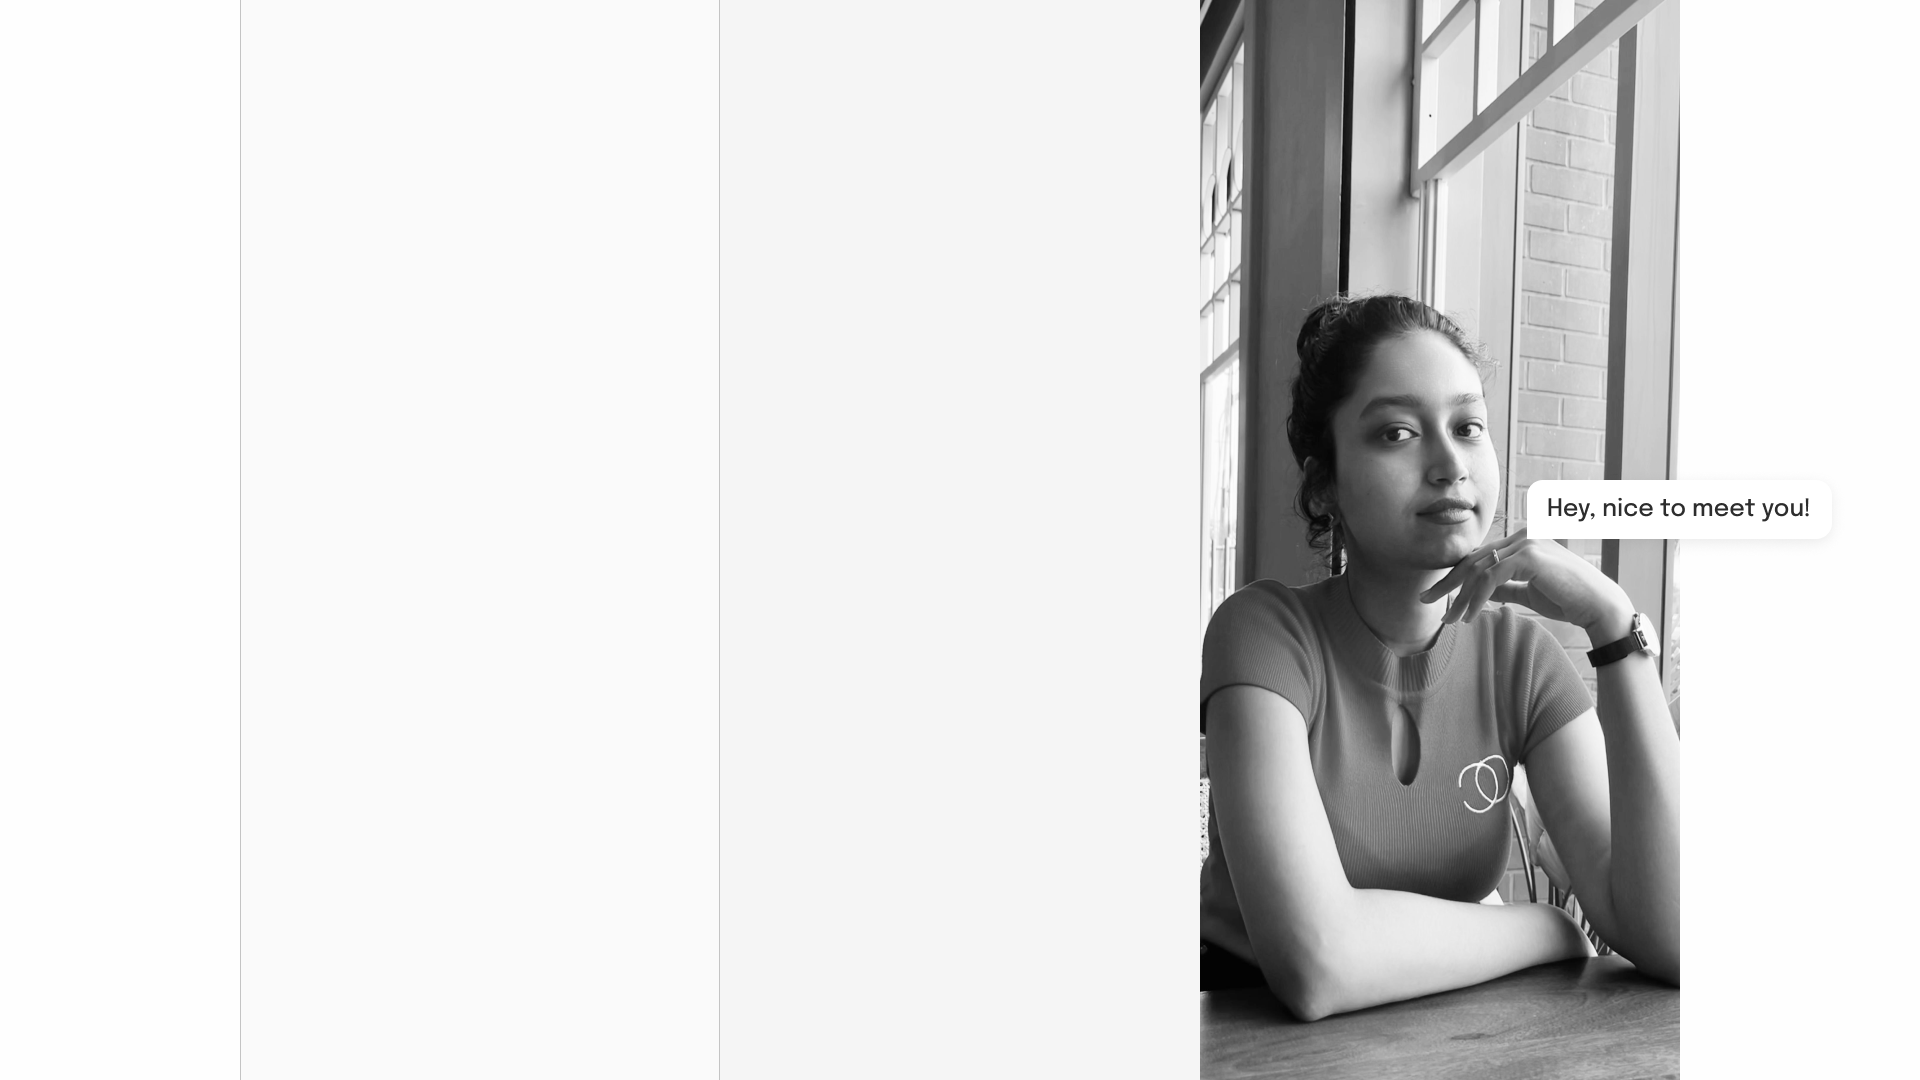
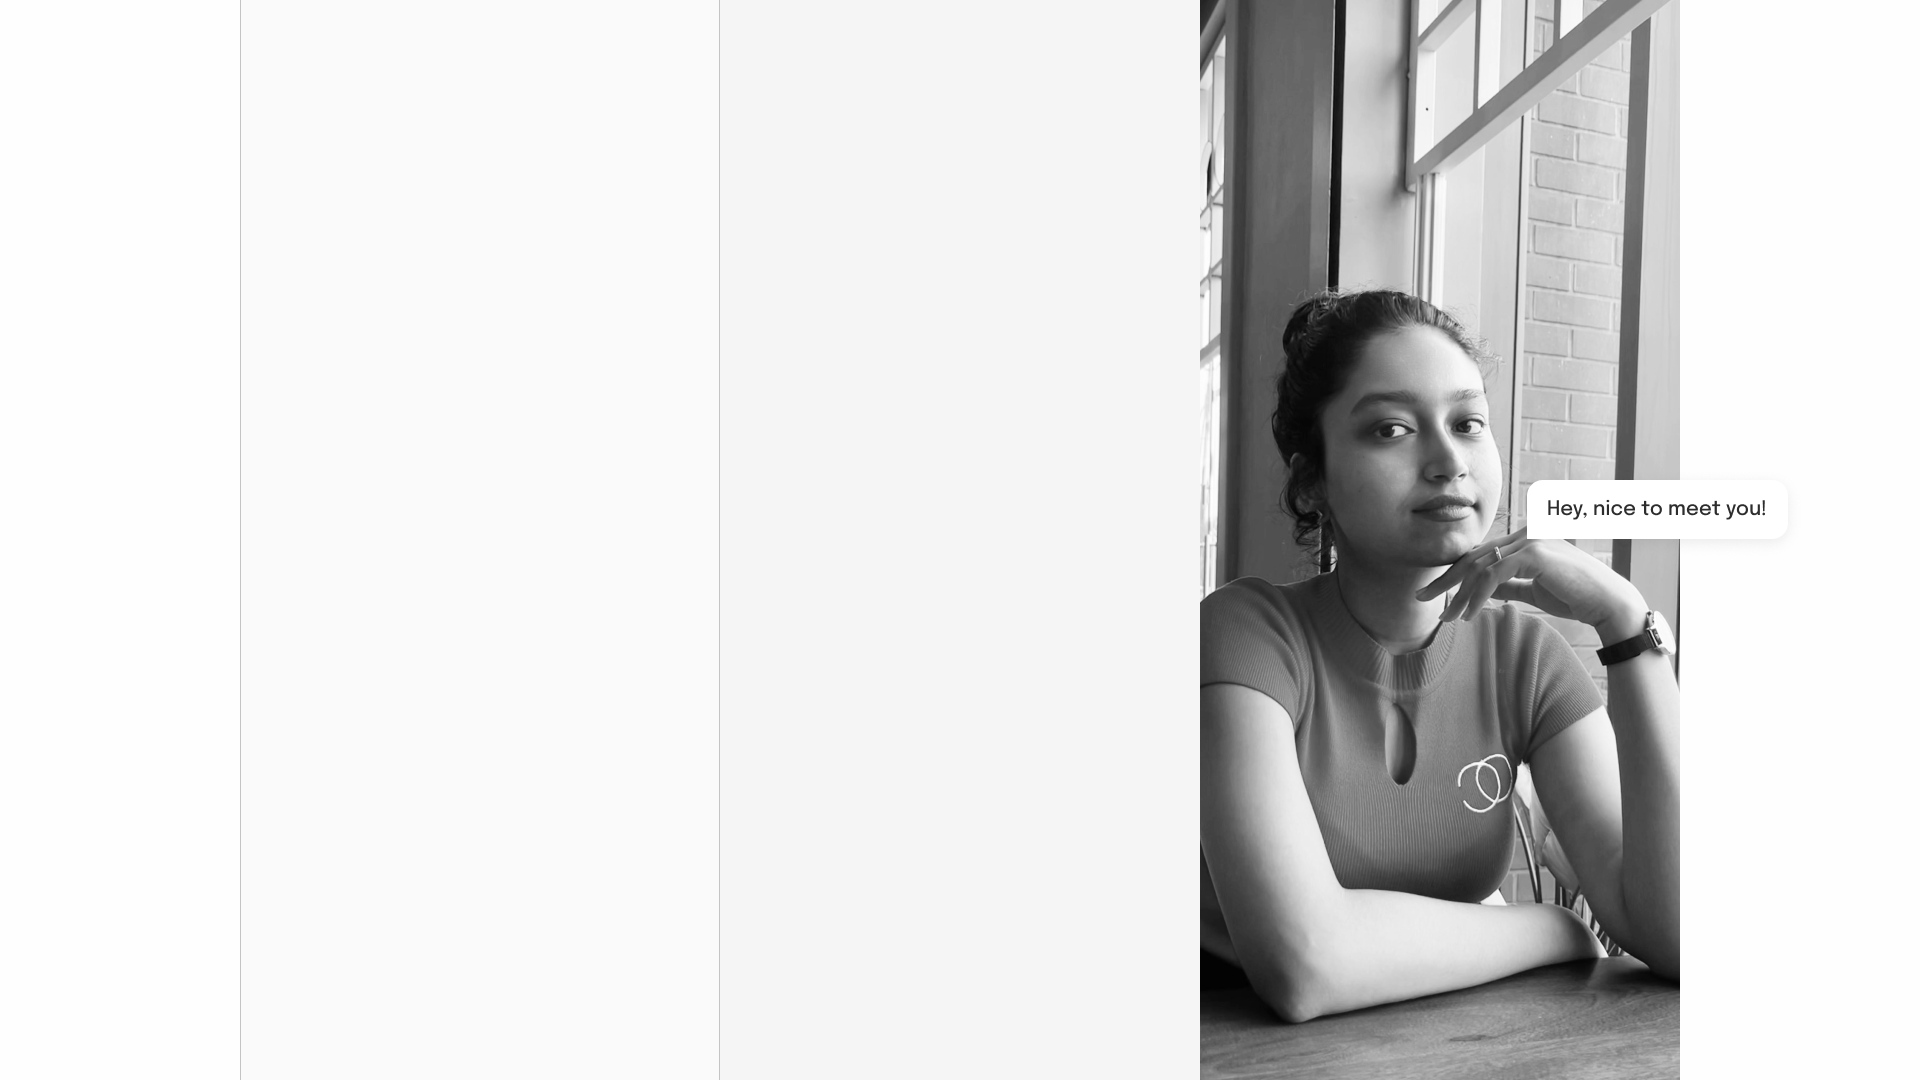
landing page bacground changes

Changed region(s): [[0.625, 0.0, 0.9375, 0.9778]]

diff --git a/src/app/page.js b/src/app/page.js
@@ -14,12 +14,12 @@ export default function Home() {
     setHover(false)
   }
 
-  
+
 
   return (
     <main className="font-epilogue">
       <div>
-        <div className={"bg-no-repeat bg-[length:100%] w-full max-h-screen aspect-[16/9] relative  " +  `${hover ? "bg-landing-hey duration-100":"bg-landing duration-100"}`}>
+        <div className={"bg-no-repeat bg-[length:100%] w-full max-h-screen aspect-[16/9] relative  " +  `${hover ? "bg-landing-hey transition-all duration-500":"bg-landing transition-all duration-500"}`}>
         <div className='absolute h-full w-[25%] aspect-[16/9] right-[12.5%]' onMouseEnter={changeToFaceBackground} onMouseLeave={changeToOriginalBackground}></div>
           <div className="flex max-w-[1280px] mx-auto justify-between h-full">
             <div className="flex flex-col justify-center gap-5 max-w-[666px] m-28">
